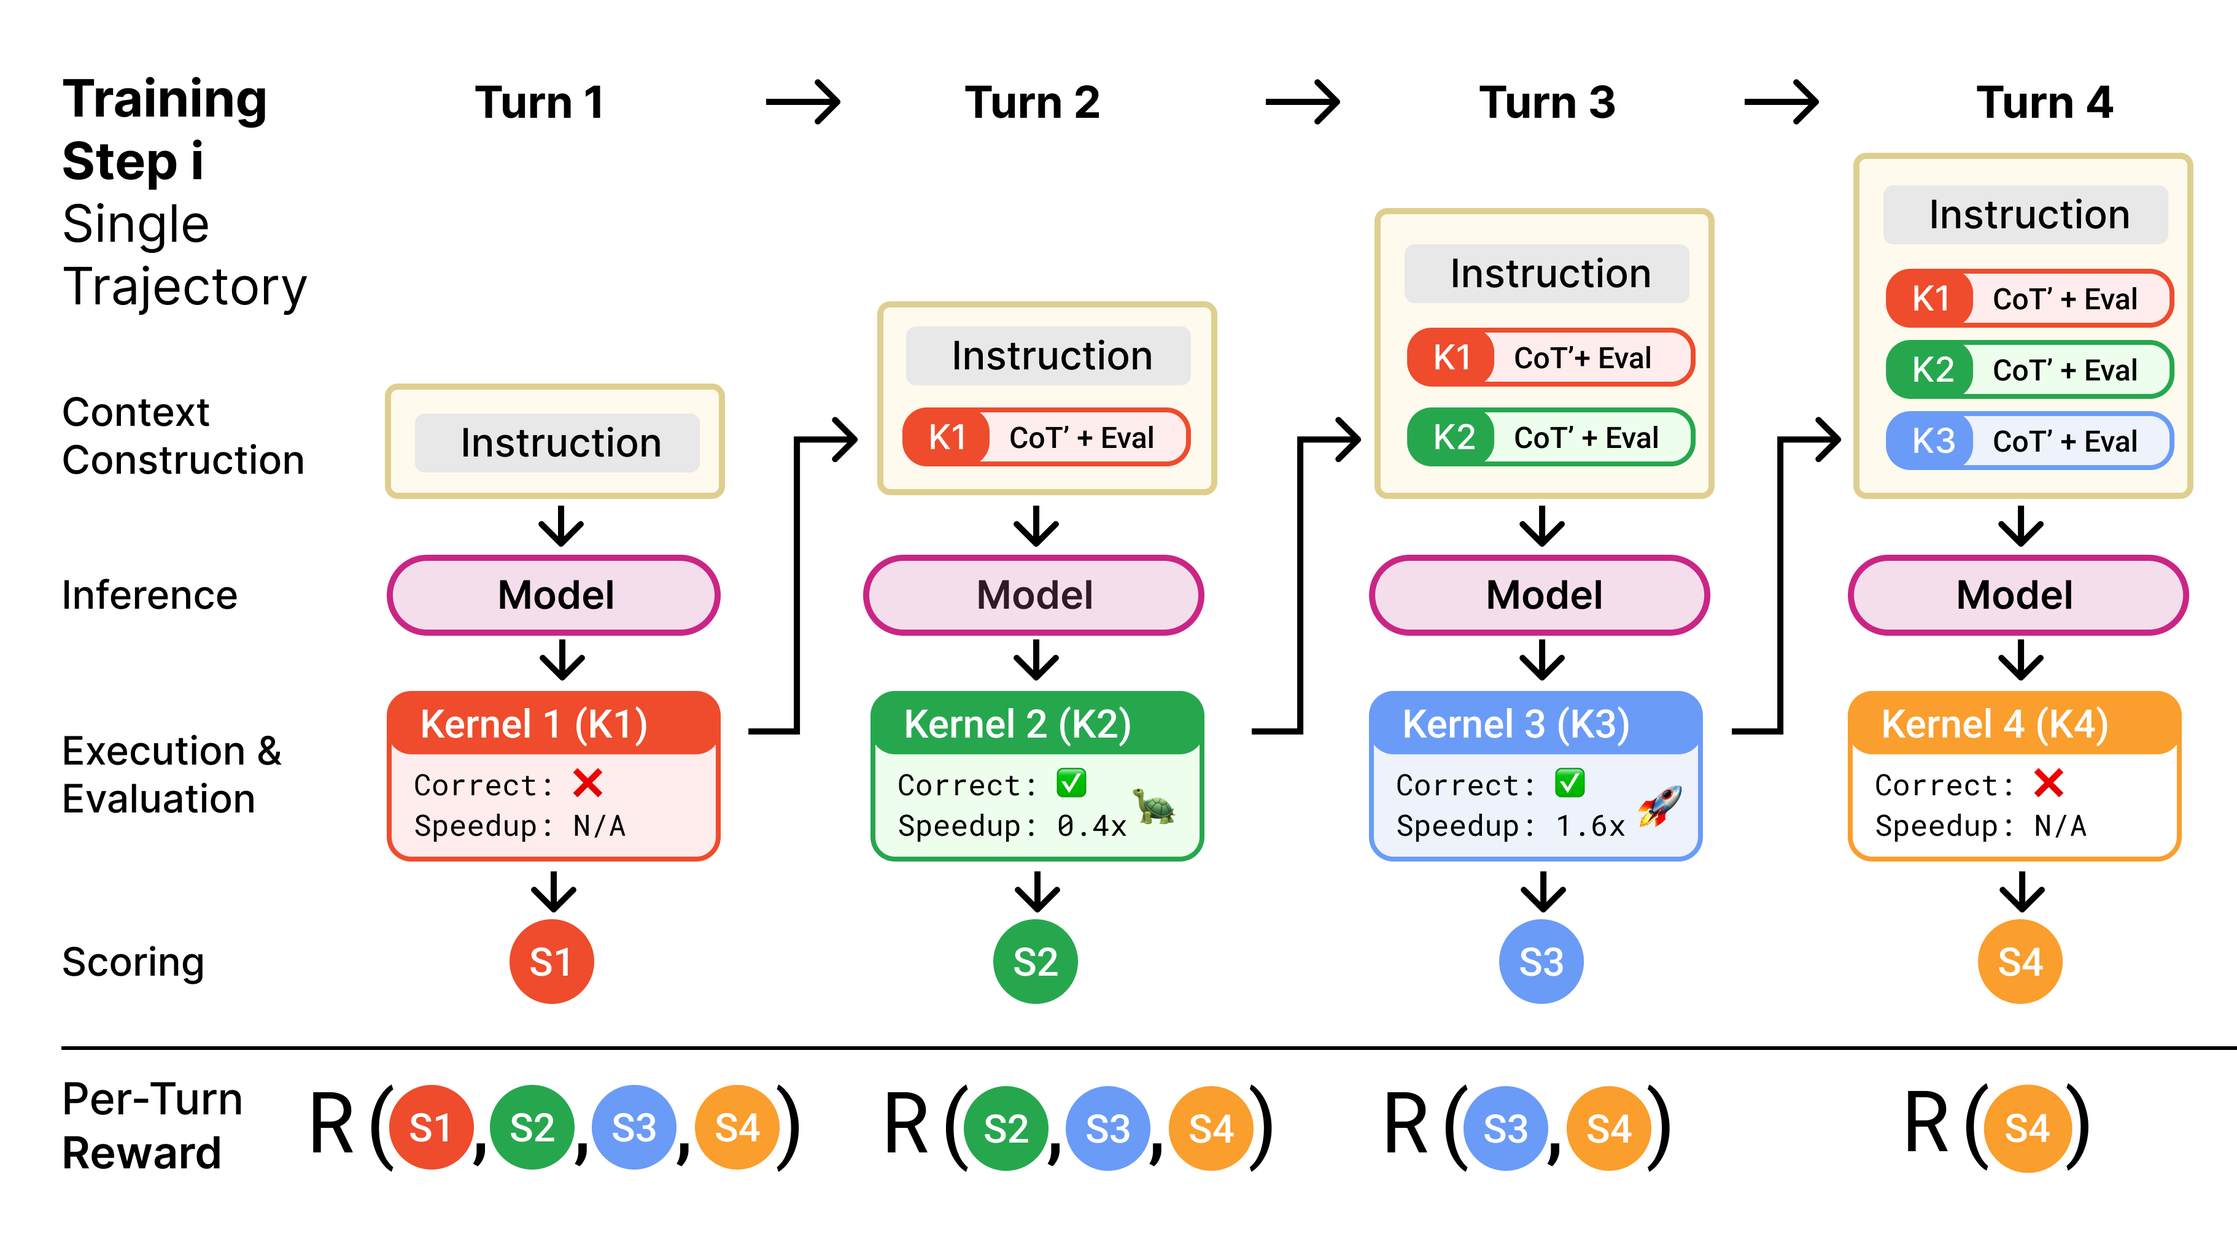
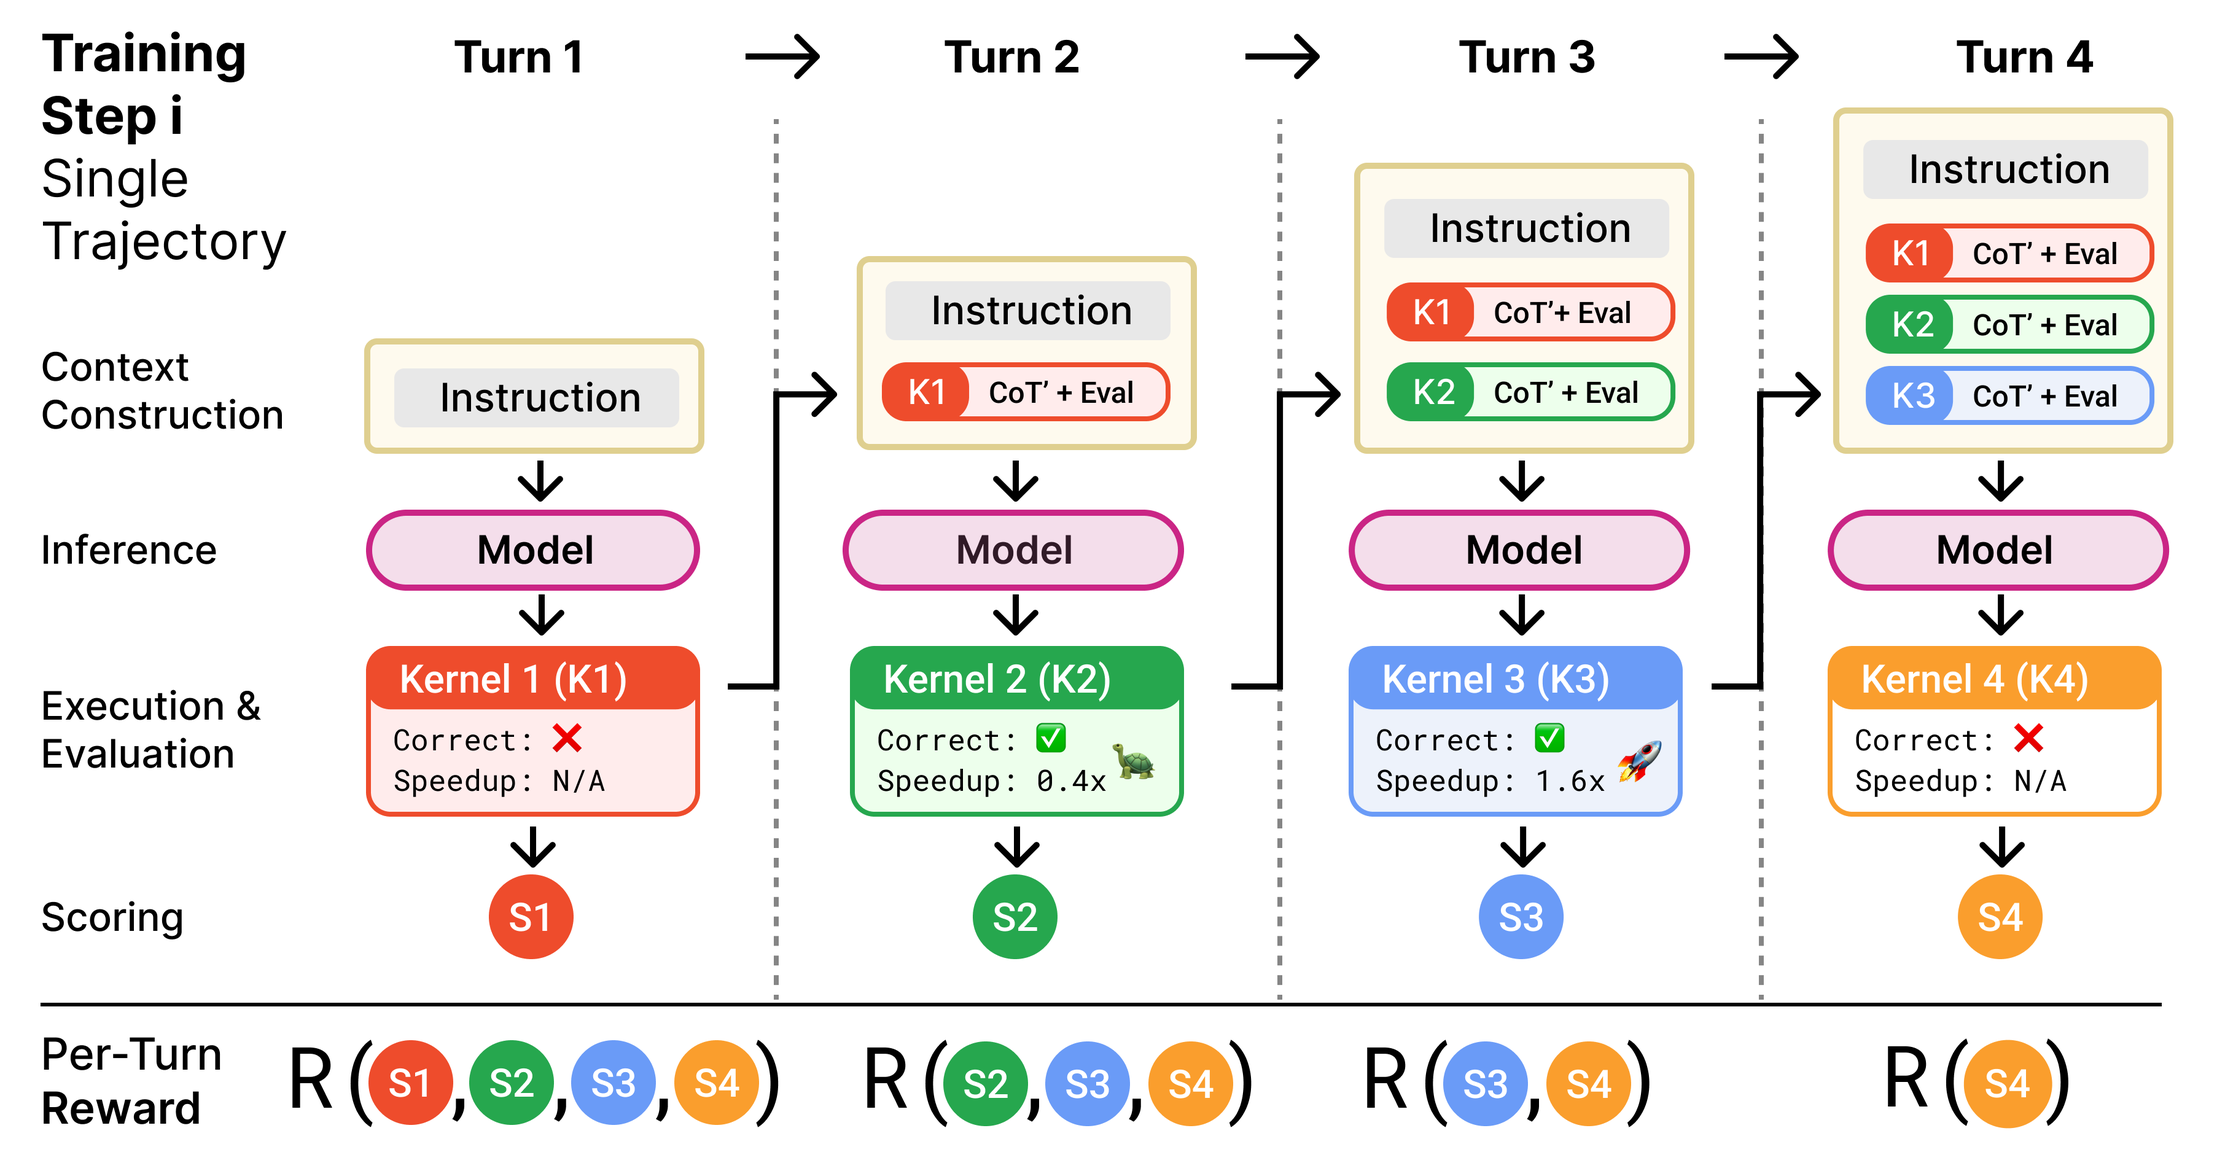
update blog with typo fix

diff --git a/_blogs/2025-10-automated-gpu-kernels.md b/_blogs/2025-10-automated-gpu-kernels.md
@@ -11,7 +11,7 @@ excerpt: A 1-year retrospective on KernelBench / progress towards automated GPU 
 
 *A 1-year retrospective on KernelBench / progress towards automated GPU Kernel Generations*
 
-By [Simon Guo](https://simonguo.tech/) and [Alex Zhang](https://alexzhang13.github.io/) | October 24, 2025, written ahead of the [SF GPU Mode Hackathon](https://events.accel.com/gpumodehackathon)
+By [Simon Guo](https://simonguo.tech/) & [Alex Zhang](https://alexzhang13.github.io/) | October 24, 2025, written ahead of the [SF GPU Mode Hackathon](https://events.accel.com/gpumodehackathon)
 
 Today roughly marks the **one-year** anniversary of the first GPU MODE hackathon, where we started to ask the question, *[“Can LLMs write efficient GPU (CUDA) kernels?”](https://arxiv.org/abs/2502.10517)*, leading to the first version of [KernelBench](https://github.com/ScalingIntelligence/KernelBench)\! Having gone down this rabbit hole for a whole year now, it has been a wild ride for my labmates and me — we tried everything from leveraging test-time search, scaling synthetic data, and applying reinforcement learning. Over the course of this endeavor, we have learned a ton and have been so surprised by the community's enthusiasm for our benchmarks and our vision, especially through all the diverse approaches that spawned over such a short period of time\!
 
@@ -19,7 +19,7 @@ Today roughly marks the **one-year** anniversary of the first GPU MODE hackathon
 
 We figured now would be a good time to share many of the **lessons** we learned along the way, and recap many of the different **approaches** that got the community to where things are now. We also speculate a bit on what might be next, and how to continue [improving KernelBench](https://github.com/ScalingIntelligence/KernelBench/issues/74) this Fall\!
 
-Concretely, we also spent a lot of time curating **all of the [follow-up and related works](https://docs.google.com/document/d/e/2PACX-1vTjS-UMH1HB5n_PENq2k-3YRfXIXkqKIKeNC2zcWMyLPdl4Jrwvdk4dNDVSsM8ybKrCxZB7GJq1slZF/pub)** over this last year. The rest of this blogpost is structured chronologically, which we think helps put into perspective how different ideas about GPU codegen evolved over time. We first recount how KernelBench was conceived and why automated GPU kernel generation matters. We then walk through the key technical lessons from the past year: we start from our thoughts on robust benchmarking and reward hacking, move to the first attempts at test-time-search (i.e. monkeys) and our parallel direction of tackling the data bottleneck, then discuss attempts at more expensive evolutionary search methods and RLVR. Finally, we look ahead at emerging directions like compiler co-design, new DSLs, and hardware-aware agents shaping the future of kernel generation.
+Concretely, we also spent a lot of time curating **all of the [follow-up and related works](https://docs.google.com/document/d/e/2PACX-1vTjS-UMH1HB5n_PENq2k-3YRfXIXkqKIKeNC2zcWMyLPdl4Jrwvdk4dNDVSsM8ybKrCxZB7GJq1slZF/pub)** over this last year. The rest of this blogpost is structured chronologically, which we think helps put into perspective how different ideas about GPU codegen evolved over time. We first recount how KernelBench was conceived and why automated GPU kernel generation matters. We then walk through the key technical lessons from the past year: we start from our thoughts on **robust benchmarking** and reward hacking, move to the first attempts at **test-time-search** (i.e. monkeys) and our parallel direction of tackling the **data bottleneck**, then discuss attempts at more expensive **evolutionary search** methods and **RLVR**. Finally, we look ahead at emerging directions like compiler co-design, new DSLs, and hardware-aware agents shaping the future of kernel generation.
 
 *Disclaimer:* this blog is modified from Simon’s talk at the [Stanford PORTAL Seminar](https://portal.stanford.edu/people.html)*;* throughout this journey, we’ve collaborated with several different companies and organizations, but any opinions or thoughts are from us (Simon & Alex) as PhD students.
 
@@ -69,7 +69,7 @@ As a first step to evaluate current capability towards automated kernel generati
 
 Since then, the field continues to grow with several new projects since KernelBench that focus on end-to-end kernel evaluation and integration that are particularly interesting, such as [BackendBench](https://github.com/meta-pytorch/BackendBench) (PyTorch operator level interface led by Mark Saroufim at PyTorch), [FlashInferBench](https://github.com/flashinfer-ai/flashinfer-bench) (FlashInfer kernels that directly integrate into inference engines), [TritonBench](https://arxiv.org/abs/2502.14752) (evaluating a model’s ability to generate performant Triton kernels), and the nanoGPT [speed-runs](https://github.com/KellerJordan/modded-nanogpt) (end-to-end train time). We greatly appreciate these efforts from the community towards more robust evaluation, such as leveraging the existing torch testing suite and training convergence testing in [BackendBench](https://github.com/meta-pytorch/BackendBench), emphasizing correctness validation. This past year, we have seen several results focused on flashy performance results, many of which are functionally incorrect or reward hacked in subtle ways. While the community continues to provide better evals, we also urge new work hillclimbing on the benchmarks to exercise caution and suspicion before reporting results.
 
-**A First Attempt: Scaling Test-Time Compute with Monkeys 🐒**
+**A First Solution: Scaling Test-Time Compute with Monkeys 🐒**
 
 The first thing I learned at Stanford was the “**infinite monkey** theorem”: my lab mates [Jordan](https://www.jordanjuravsky.com/), [Ryan](http://linkedin.com/in/ryan-ehrlich-68a60b11a), and [Bradley](https://www.bradbrown.ca/) were showing me the surprising power of test-time compute they found with [Large Language Monkeys](https://arxiv.org/abs/2407.21787), where they found simply repeated sampling solutions improve SWE-Bench performance dramatically:
 
@@ -105,15 +105,15 @@ Since its inception, we’ve had more than **60k** submissions across the globe,
 
 We are particularly excited by future efforts on the data front, whether it be through more principled human data collection efforts or through scalable synthetic data generation.
 
-## **Leveraging Model to Navigate through Search Space**
+## **Models are Strong Priors over a Search Space**
 
-As we expanded in the text-time compute / monkey section, there is a **non-zero probability** that there exists a solution in the model’s output distribution. The issue is generally how to find or eventually sample this solution (**non-zero probability** could mean one in a billion\!), which people hypothesize occurs if we correctly condition the model on some relevant information (e.g. few shot examples, debugger traces, etc.). The idea of **evolutionary search** is to 1\) leverage the model’s inherent notion of **interestingness** to navigate through the search space, 2\) keep an active **archive** of good examples found so far to continue / seed the search. Particularly, we have seen a few work that excitingly leverage this formula and apply it to the kernel generation problem:
+As we expanded in the text-time compute / monkey section, we have been using the assumption that there is a **non-zero probability** that there exists a solution in the model’s output distribution. A natural progression of test-time search is whether there is any structure present in the search space that we can exploit. The idea of **evolutionary search** is to 1\) leverage the model’s inherent notion of **interestingness** to navigate through the search space, 2\) keep an active **archive** of good examples found so far to continue / seed the search. Particularly, we have seen a few work that excitingly leverage this formula and apply it to the kernel generation problem:
 
-* Sakana AI’s [AI CUDA Engineer](https://x.com/SakanaAILabs/status/1892385766510338559) was one of the first works to apply evolutionary test-time search to the kernel LLM problem. While they accidentally discovered several reward-hacked kernels (and kudos for them for releasing them and revising their work), we found their approach fascinating nonetheless, especially regarding leveraging verifier and profiler feedback to nudge the search space.  
+* Sakana AI’s [AI CUDA Engineer](https://x.com/SakanaAILabs/status/1892385766510338559) was one of the first works to apply evolutionary test-time search to the kernel LLM problem. While they accidentally discovered several reward-hacked kernels (and kudos for them for releasing them and revising their work), we found their approach fascinating nonetheless.  
 * My labmate Anne’s [Surprisingly Fast AI-Generated Kernels We Didn’t Mean to Publish (Yet)](https://crfm.stanford.edu/2025/05/28/fast-kernels.html) blogpost focuses on leveraging a tree-like structured search over kernels for a particular task. Concretely, she split the search into two steps: first come up with an optimization **idea** in natural language and then implementation, while exploring multiple ideas and implementations at each step and keeping the best one to keep exploring next. This approach yielded some very interesting and competitive kernels\!   
 * Google Deepmind’s [AlphaEvolve](https://deepmind.google/discover/blog/alphaevolve-a-gemini-powered-coding-agent-for-designing-advanced-algorithms/) equipped the Gemini model with automated verifiers and then used an evolutionary framework to improve upon the most promising ideas. They were able to optimize low-level GPU instructions (optimize XLA-generated IR), and led to a 32.5% speedup for their JAX/pallas-based FlashAttention kernel implementation\!
 
-These early signs could very much suggest that **open-ended evolutionary** methods could be a viable strategy for producing interesting kernels, especially those that the models haven’t seen before. To enable more research, we are [integrating](https://github.com/ScalingIntelligence/KernelBench/issues/73) KernelBench with the [OpenEvolve](https://github.com/codelion/openevolve) framework (open-source AlphaEvolve implementation), which exciting has already been used for [MLX kernel search](https://huggingface.co/blog/codelion/openevolve-gpu-kernel-discovery).
+These early signs could very much suggest that **open-ended evolutionary** methods could be a viable strategy for producing interesting kernels, especially those that the models haven’t seen before. To enable more research, we are [integrating](https://github.com/ScalingIntelligence/KernelBench/issues/73) KernelBench with the [OpenEvolve](https://github.com/codelion/openevolve) framework (open-source AlphaEvolve implementation), which excitingly has already been used for [MLX kernel search](https://huggingface.co/blog/codelion/openevolve-gpu-kernel-discovery).
 
 ## **So… could we just hillclimb with RLVR?**
 
@@ -125,7 +125,7 @@ It is not so simple. If trained in a single turn setting, the model is effective
 
 When RL is applied to real-world scenarios, a whole host of issues arise. It suffers from sparse rewards, training collapse, and frequent reward-hacking (if it can hack, it will hack)\! To address this, we had to design a flexible multi-turn training recipe that prevents context explosion, enforces training stability, and focuses on sample efficiency. We think kernel engineering is actually a setting to experiment with new RL algorithms\! For example, the multi-turn RL we used to train Kevin is extended creatively by the team at Cognition to [train models for extremely fast context search](https://cognition.ai/blog/swe-grep). 
 
-We have noted a suite of RL-centric approaches after Kevin, . To enable the community to further RL research and enable KernelBench to contribute to improving model reasoning, we are in the process of integrating KernelBench with open-source RL environment hubs on [Prime Intellect](https://app.primeintellect.ai/dashboard/environments/popfido/kernelbench), [Torch Forge](https://pytorch.org/blog/introducing-pytorch-monarch/), [Atropos](https://github.com/NousResearch/atropos), [Marin](https://marin.community/). At the same time, we also wanted to highlight community effort to create more much-needed and diverse RL environments, such as [PMPP-eval](https://blog.sinatras.dev/PMPP-Eval+Journey), which turns CUDA problems from the popular GPU programming textbook into tasks to run RL on\!
+To enable the community to further RL research and enable KernelBench to contribute to improving model reasoning, we are in the process of integrating KernelBench with open-source RL environment hubs on [Prime Intellect](https://app.primeintellect.ai/dashboard/environments/popfido/kernelbench), [Torch Forge](https://pytorch.org/blog/introducing-pytorch-monarch/), [Atropos](https://github.com/NousResearch/atropos), [Marin](https://marin.community/). At the same time, we also wanted to highlight community effort to create more much-needed and diverse RL environments, such as [PMPP-eval](https://blog.sinatras.dev/PMPP-Eval+Journey), which turns CUDA problems from the popular GPU programming textbook into tasks to run RL on\!
 
 ## **Future Directions**
 
@@ -164,13 +164,13 @@ Perhaps as a PhD student, the best part of this journey is the people I get to w
 
 I am incredibly grateful for my lab mates during the KernelBench project like [Anne](https://anneouyang.com/) who bootstrapped the project together through many late nights, [William](https://www.linkedin.com/in/williamh20/) and [Alex](https://alexzhang13.github.io/) for helping out and leading many parts of the investigation, and [Simran](https://arorasimran.com/) and [Dan](https://danfu.org/) for tirelessly mentoring us. Special thanks to my advisors during the first-year rotation program: especially Prof. [Azalia Mirhoseini](http://azaliamirhoseini.com/) for believing in us and her immense support, Prof. [Christopher Ré](https://cs.stanford.edu/~chrismre/) (and the whole group) for showing me what doing excellent work looks like, and Prof. [Tatsunori Hashimoto](https://thashim.github.io/) for the many impromptu yet incredibly helpful discussions by the water fountain. I am also so grateful to mentor undergrads, particularly the trio ([Carlo](https://scholar.google.com/citations?user=DwvvTgQAAAAJ&hl=en), [Pietro](https://scholar.google.com/citations?user=3HcA-zAAAAAJ&hl=en), [Ben](https://www.linkedin.com/in/ybenpan/)) with their RL wizardry for Kevin, and [Cognition AI’s](https://cognition.ai/) support for them.
 
-KernelBench and many of the follow-up would not have been possible without many generous collaborators and sponsors. Modal and Prime Intellect enabled us to easily extend KernelBench to a variety of different GPU platforms. The PyTorch / FAIR Code Generation team ([Mark](https://www.marksaroufim.com/), [Sahan Paliskara](https://www.linkedin.com/in/sahan-paliskara/), [Zach](https://scholar.google.com/citations?user=nYfsAVcAAAAJ&hl=en), [Joe Isaacson](https://www.linkedin.com/in/joe-isaacson-9593202a/), [Joe Spisak](https://www.linkedin.com/in/jspisak/), [Hugh](https://scholar.google.com/citations?user=oIGrLpsAAAAJ&hl=en), [Chris Cummins](https://chriscummins.cc/)) has been instrumental in helping us understand how to benchmark and enabling follow-up work like KernelBook and KernelLLM. We are also grateful for the enthusiasm from the GPU mode community and particularly the competition devs (Matej, Erik, Mark, Ben) to democratize kernel writing for everyone.
+KernelBench and many of the follow-up would not have been possible without many generous collaborators and sponsors. Modal and Prime Intellect enabled us to easily extend KernelBench to a variety of different GPU platforms. The PyTorch / FAIR Code Generation team ([Mark](https://www.marksaroufim.com/), [Sahan Paliskara](https://www.linkedin.com/in/sahan-paliskara/), [Zach](https://scholar.google.com/citations?user=nYfsAVcAAAAJ&hl=en), [Joe Isaacson](https://www.linkedin.com/in/joe-isaacson-9593202a/), [Joe Spisak](https://www.linkedin.com/in/jspisak/), [Hugh](https://scholar.google.com/citations?user=oIGrLpsAAAAJ&hl=en), [Chris Cummins](https://chriscummins.cc/)) has been instrumental in helping us understand how to benchmark and enabling follow-up work like KernelBook and KernelLLM. We are also grateful for the enthusiasm from the GPU Mode community and particularly the competition devs (Matej, Erik, Mark, Ben, Alex) for creating the GPU MODE leaderboard and democratizing GPU kernel data in the open.
 
-Thank you to [Arya Tschand](https://www.aryatschand.com/), [Kesavan Ramakrishnan,](https://kesavanramakrishnan.com) [Nathan Paek](https://www.linkedin.com/in/nathan-js-paek/), [Ethan Boneh](https://www.linkedin.com/in/ethan-boneh/), [Pietro Marsella](https://x.com/pmmarsella), [Michael Zhang](https://michaelzhang.xyz/), [Allen Nie](https://anie.me/about), [Vighnesh Iyer](https://vighneshiyer.com/), [Kilian Haefeli](https://kilianhae.github.io/), [Ofir Press](https://ofir.io/), [Asianometry](https://www.youtube.com/asianometry) for reviewing this blog post. 
+Thank you to [Arya Tschand](https://www.aryatschand.com/), [Kesavan Ramakrishnan,](https://kesavanramakrishnan.com) [Nathan Paek](https://www.linkedin.com/in/nathan-js-paek/), [Ethan Boneh](https://www.linkedin.com/in/ethan-boneh/), [Pietro Marsella](https://x.com/pmmarsella), [Michael Zhang](https://michaelzhang.xyz/), [Allen Nie](https://anie.me/about), [Vighnesh Iyer](https://vighneshiyer.com/), [Kilian Haefeli](https://kilianhae.github.io/), and [Asianometry](https://www.youtube.com/asianometry) for reviewing this blog post. 
 
 ## **Reference**
 
-Projects & Publications Simon was part of
+Relevant Projects & Publications we were on:
 
 * **KernelBench: Can LLMs Write Efficient GPU Kernels?** Anne Ouyang\*, Simon Guo\*, Simran Arora, Alex L. Zhang, William Hu, Christopher Ré, Azalia Mirhoseini [https://arxiv.org/abs/2502.10517](https://arxiv.org/abs/2502.10517)  
   * `ScalingIntelligence/KernelBench` \- 600+ stars \[[Github](https://github.com/ScalingIntelligence/KernelBench), [HF](https://huggingface.co/datasets/ScalingIntelligence/KernelBench)\]  
